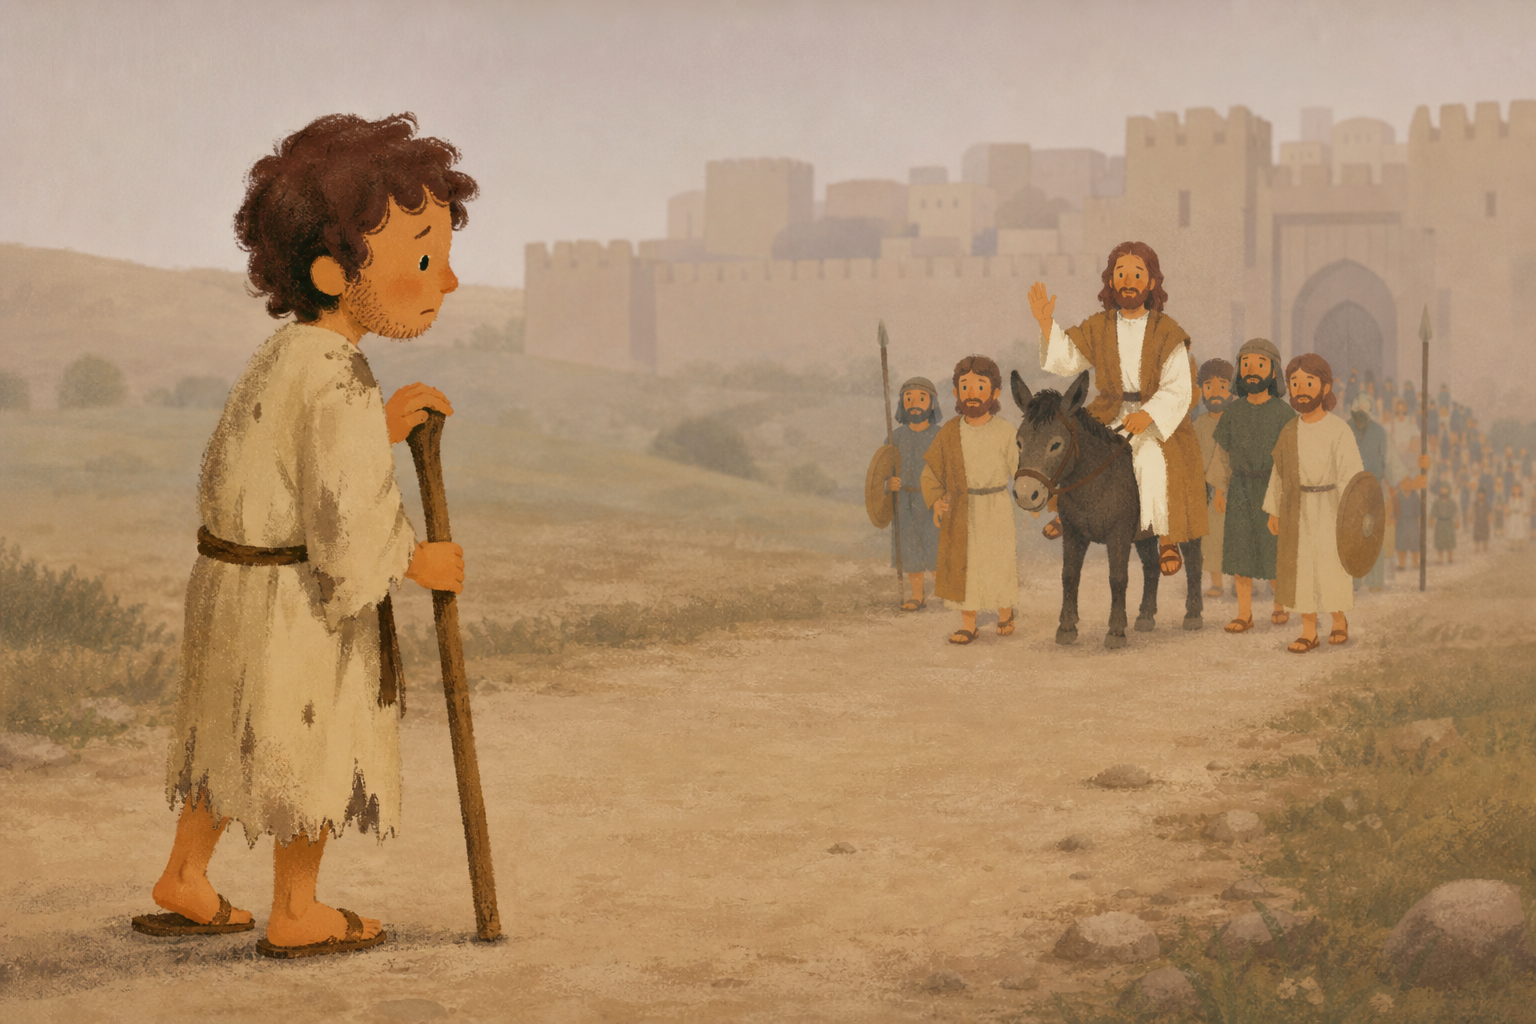
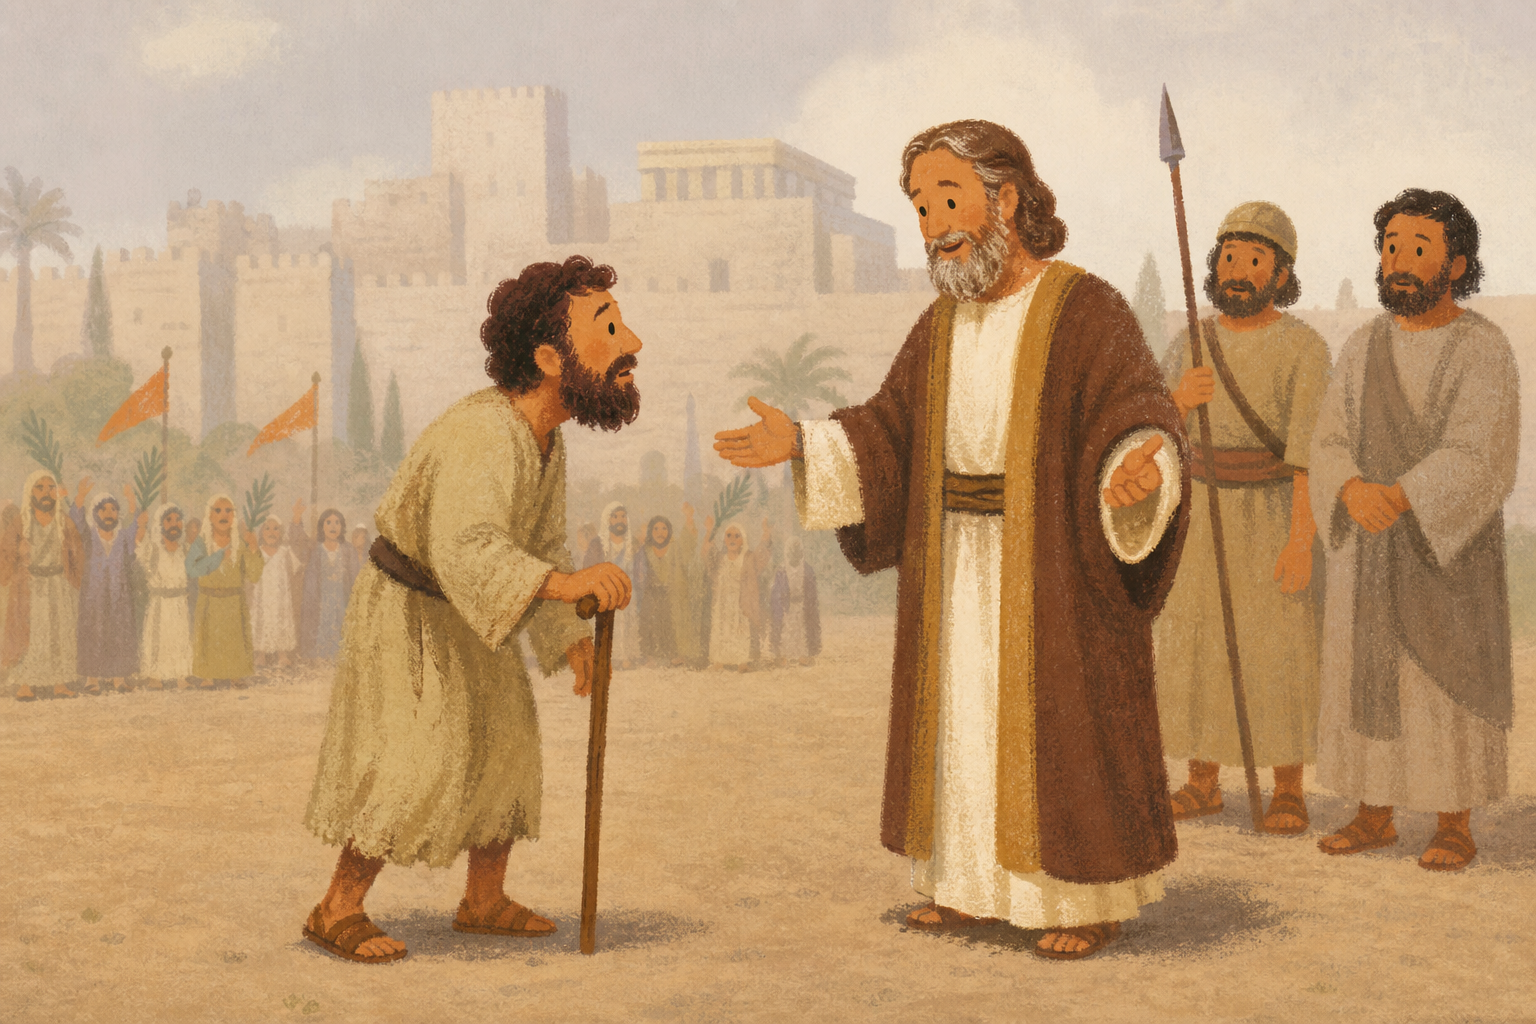
fix(scenes): 인물 나이를 성경 연대로 고정 — 므비보셋이 아이로 그려지던 문제 해결
8/18 장면에서 므비보셋(약 40세)이 7세 아이로, 다윗 왕(약 60세)이
무릎 꿇은 자세로 그려졌다. 원인은 character_appearance.json이
'그림에서 읽은 외형'을 영구 저장하는 구조라, 한 번 잘못 그려진 그림의
나이·자세가 사전에 굳어 매일 재생산된 것.

- data/character_ages.json 신설: 키를 '인물|성경책'으로 나눠 시기별
  나이를 분리(삼상 다윗 20세 / 삼하 다윗 60세). 표기는 '약 60세
  (60대 남성 노인)'처럼 숫자+연령대로 통일.
- 나이를 캐릭터 일관성 블록 맨 앞에 주입하고 '나이는 절대 규칙'으로 명시.
  사전에 없는 인물은 성경 연대 근거로 자동 추정해 채운다.
- 이름 표기 흔들림(다윗 ↔ 다윗 왕) 매칭 보완.
- 그림에서 외형을 읽을 때 자세·표정·나이는 저장 금지 — 오염 재발 차단.
- 므비보셋('어린 소년') · 다윗 왕('무릎 꿇고 있는 자세') 굳은 값 교정.
- 8/18 장면 재생성.

diff --git a/scripts/generate_scene_image.py b/scripts/generate_scene_image.py
@@ -164,7 +164,15 @@ def make_client():
 # 인물별 외형(신체비율·헤어·얼굴·의상)을 영구 저장해, 같은 인물은 매일·매 장면 똑같이 그리도록 함.
 CHAR_REGISTRY_PATH = PROJECT_ROOT / "data" / "character_appearance.json"
 CHAR_VISION_MODEL = "gpt-4o-mini"  # 멀티모달 — 그림에서 외형을 읽어옴
+# 그림에서 읽어오는 항목. '나이'는 여기 넣지 않는다 —
+# 한 번 어리게 그려진 그림을 읽으면 그 값이 사전에 굳어 매일 재생산되기 때문(므비보셋 사건).
 CHAR_FIELDS = ["신체비율", "헤어스타일", "얼굴", "의상"]
+
+# ===== 인물 나이 사전 =====
+# 나이는 그림이 아니라 '성경 연대'에서 온다. 사람이 손으로 확정한 값이 최우선이고,
+# 사전에 없는 인물만 텍스트 모델이 추정해 채운 뒤 파일에 남긴다(다음부터 재사용).
+CHAR_AGES_PATH = PROJECT_ROOT / "data" / "character_ages.json"
+AGE_MODEL = "gpt-4o-mini"
 
 
 def load_char_registry() -> dict:
@@ -174,6 +182,77 @@ def load_char_registry() -> dict:
 def save_char_registry(reg: dict) -> None:
     CHAR_REGISTRY_PATH.parent.mkdir(parents=True, exist_ok=True)
     CHAR_REGISTRY_PATH.write_text(json.dumps(reg, ensure_ascii=False, indent=2), encoding="utf-8")
+
+
+def load_ages() -> dict:
+    return load_json(CHAR_AGES_PATH) or {}
+
+
+def save_ages(ages: dict) -> None:
+    CHAR_AGES_PATH.parent.mkdir(parents=True, exist_ok=True)
+    CHAR_AGES_PATH.write_text(json.dumps(ages, ensure_ascii=False, indent=2), encoding="utf-8")
+
+
+def book_of(scripture_ref: str) -> str:
+    """'사무엘하 19:24-30' → '사무엘하'. 같은 인물도 책(시기)이 다르면 나이가 다르므로 키에 넣는다."""
+    return (scripture_ref or "").split()[0] if scripture_ref else ""
+
+
+def age_key(name: str, book: str) -> str:
+    return f"{name}|{book}" if book else name
+
+
+def lookup_age(ages: dict, name: str, book: str) -> str:
+    """이 인물의 나이 문구. 해당 책의 값이 없으면 다른 책의 값이라도 쓰지 않고 빈 값(→추정 대상)."""
+    entry = ages.get(age_key(name, book))
+    return (entry or {}).get("나이", "") if isinstance(entry, dict) else (entry or "")
+
+
+def estimate_missing_ages(client, names: list[str], scripture_ref: str, date_str: str) -> dict:
+    """사전에 없는 인물의 나이를 성경 연대 근거로 추정해 사전에 채운다(있는 값은 절대 덮지 않음)."""
+    ages = load_ages()
+    book = book_of(scripture_ref)
+    missing = [n for n in names if not lookup_age(ages, n, book)]
+    if not missing:
+        return ages
+
+    ai = load_json(PROJECT_ROOT / "data" / "ai" / f"{date_str}.json") or {}
+    roles = "\n".join(
+        f"- {(c.get('name') or '').strip()}: {(c.get('description') or '').strip()}"
+        for c in (ai.get("characters") or []) if (c.get("name") or "").strip() in missing
+    )
+    system = (
+        "너는 성경 연대기에 밝은 역사 고증가야. 주어진 본문 시점에서 각 인물이 몇 살인지 추정해. "
+        "반드시 성경 본문의 연대 단서(즉위 나이·통치 연수·사건 순서·자녀 유무)를 근거로 삼아. "
+        "무명 인물(백성·군사·여인 등)은 배역에 맞는 상식적인 연령대를 지정해. '알 수 없음'은 금지 — 무조건 값을 내라. "
+        "나이는 '약 40세 전후 (중년 남성)'처럼 숫자와 연령대를 함께 적어. "
+        '오직 JSON만 출력: {"characters":[{"name":"","나이":"","근거":""}]}'
+    )
+    user = f"본문: {scripture_ref}\n나이를 추정할 인물: {', '.join(missing)}"
+    if roles:
+        user += f"\n\n[인물 설명]\n{roles}"
+    resp = client.chat.completions.create(
+        model=AGE_MODEL,
+        messages=[{"role": "system", "content": system}, {"role": "user", "content": user}],
+        temperature=0.2,
+        max_tokens=700,
+        response_format={"type": "json_object"},
+    )
+    try:
+        parsed = json.loads(resp.choices[0].message.content)
+    except json.JSONDecodeError:
+        log("나이 추정 응답을 읽지 못했습니다 — 사전에 있는 값만 사용합니다.", "WARN")
+        return ages
+
+    for c in parsed.get("characters", []):
+        n = (c.get("name") or "").strip()
+        age = (c.get("나이") or "").strip()
+        if not n or not age or lookup_age(ages, n, book):
+            continue
+        ages[age_key(n, book)] = {"나이": age, "근거": (c.get("근거") or "").strip(), "출처": "자동"}
+        log(f"  · 나이 추정: {n} — {age}", "OK")
+    save_ages(ages)
+    return ages
 
 
 def day_character_names(date_str: str) -> list[str]:
@@ -204,8 +283,10 @@ def describe_characters_from_image(client, image_path: Path, names: list[str], h
     system = (
         "너는 동화책 일러스트의 캐릭터 디자이너야. 주어진 그림에서 지정한 인물들의 '외형'만 묘사해. "
         "먼저 아래 '인물 역할/장면' 설명을 보고 그림 속 누가 누구인지 정확히 식별한 뒤, "
-        "각 인물마다 신체비율(체격·키 인상), 헤어스타일(색·길이·모양), 얼굴(나이대·수염·인상), "
+        "각 인물마다 신체비율(체격·키 인상), 헤어스타일(색·길이·모양), 얼굴(수염·이목구비 인상), "
         "의상(색·형태·소품)을 간결한 한국어 명사구로 적어. 그림에 분명히 보이지 않는 인물은 결과에서 빼(상상 금지). "
+        "⚠ 그 장면에서만 잠깐인 것은 절대 적지 마: 자세(무릎 꿇음·손을 뻗음 등), 표정·감정(슬픈·놀란 등), "
+        "그날 든 물건. 매일 변하지 않는 '고정 외형'만 적어. 나이도 적지 마(나이는 별도 사전이 관리한다). "
         '오직 JSON만 출력: {"characters":[{"name":"","신체비율":"","헤어스타일":"","얼굴":"","의상":""}]}'
     )
     user_text = "묘사할 인물: " + ", ".join(names)
@@ -284,10 +365,20 @@ def appearances_for_scene(context: dict, names: list[str]) -> list[tuple[str, st
     # 실제 '그려질' 인물은 브리프의 인물 설명이 가장 정확(서사 텍스트엔 죽은 인물도 언급됨).
     # 브리프 인물이 있으면 그걸 우선 기준으로, 비어 있으면 장면 텍스트로 폴백.
     haystack = brief_people if brief_people.strip() else scene_text
+    ages = load_ages()
+    book = book_of(context.get("본문_참조", ""))
     picked = []
     for n in names:
-        if n in reg and n in haystack:
-            picked.append((n, appearance_line(reg[n])))
+        # 이름 표기가 흔들려도(예: 사전 '다윗 왕' ↔ 본문 '다윗') 잡히도록 첫 낱말로도 대조한다.
+        aliases = {n, n.split()[0]} if n.split() else {n}
+        if not any(a in haystack for a in aliases):
+            continue
+        age = lookup_age(ages, n, book)
+        desc = appearance_line(reg[n]) if n in reg else ""
+        # 나이를 맨 앞에 둔다 — 외형 문구보다 먼저 읽혀야 연령대가 잡힌다.
+        line = "; ".join(x for x in [f"나이 {age}" if age else "", desc] if x)
+        if line:
+            picked.append((n, line))
     return picked
 
 
@@ -345,7 +436,10 @@ def build_image_prompt(context: dict, brief: dict, appearances: list | None = No
                 "[캐릭터 일관성 — 매우 중요]\n"
                 "아래 인물은 매일·매 장면에서 반드시 동일한 외형(신체비율·헤어·얼굴·의상)으로 그리세요. "
                 "장면이 달라도 같은 사람으로 알아볼 수 있어야 합니다.\n"
-                f"{lines}\n\n"
+                f"{lines}\n"
+                "※ '나이'는 절대 규칙입니다. 적힌 연령대의 얼굴·체격·수염으로만 그리고, "
+                "어느 인물도 실제보다 어리게(특히 성인을 소년·아이로) 그리지 마세요. "
+                "나이와 다른 외형 문구가 충돌하면 나이를 따르세요.\n\n"
             )
 
     return (
@@ -489,6 +583,12 @@ def main() -> int:
         context = build_source_context(date_str, variant_index=vi)
         if not context:
             return 1
+        # 나이 사전 보충 — 오늘 등장인물 중 사전에 없는 사람만 추정해 채운다(기존 값은 불변)
+        try:
+            estimate_missing_ages(client, char_names, context["본문_참조"], date_str)
+        except Exception as e:
+            log(f"나이 추정 건너뜀: {e}", "WARN")
+
         out_path = SCENES_DIR / context["out_name"]
         label = f"변형 {vi + 1}" if vi is not None else "단일"
         log(f"[{label}] 본문: {context['주제']} ({context['본문_참조']}) → {out_path.name}", "OK")
